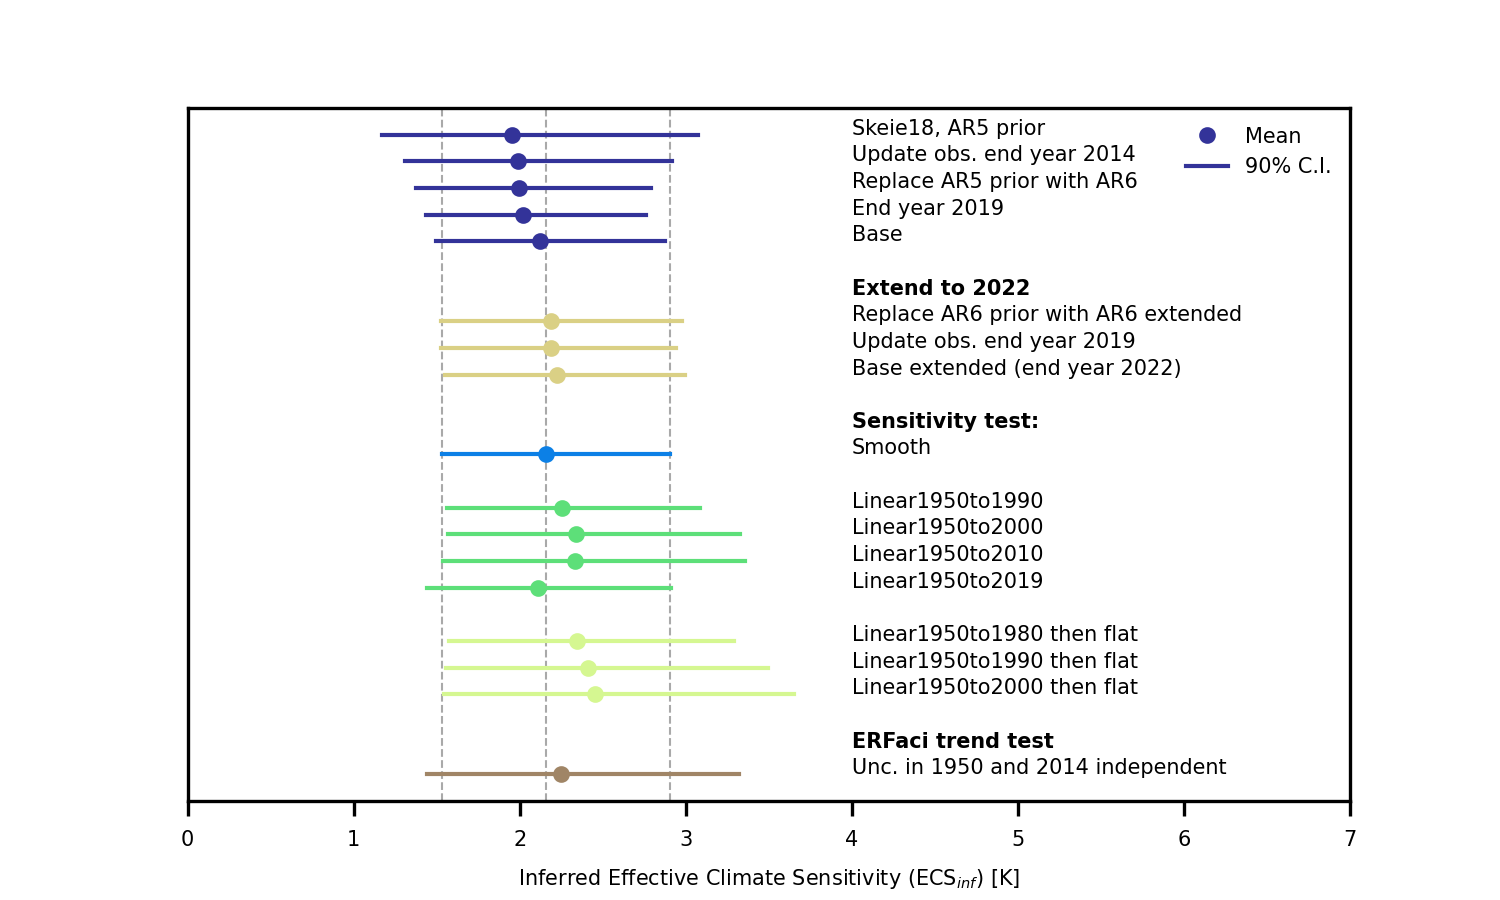
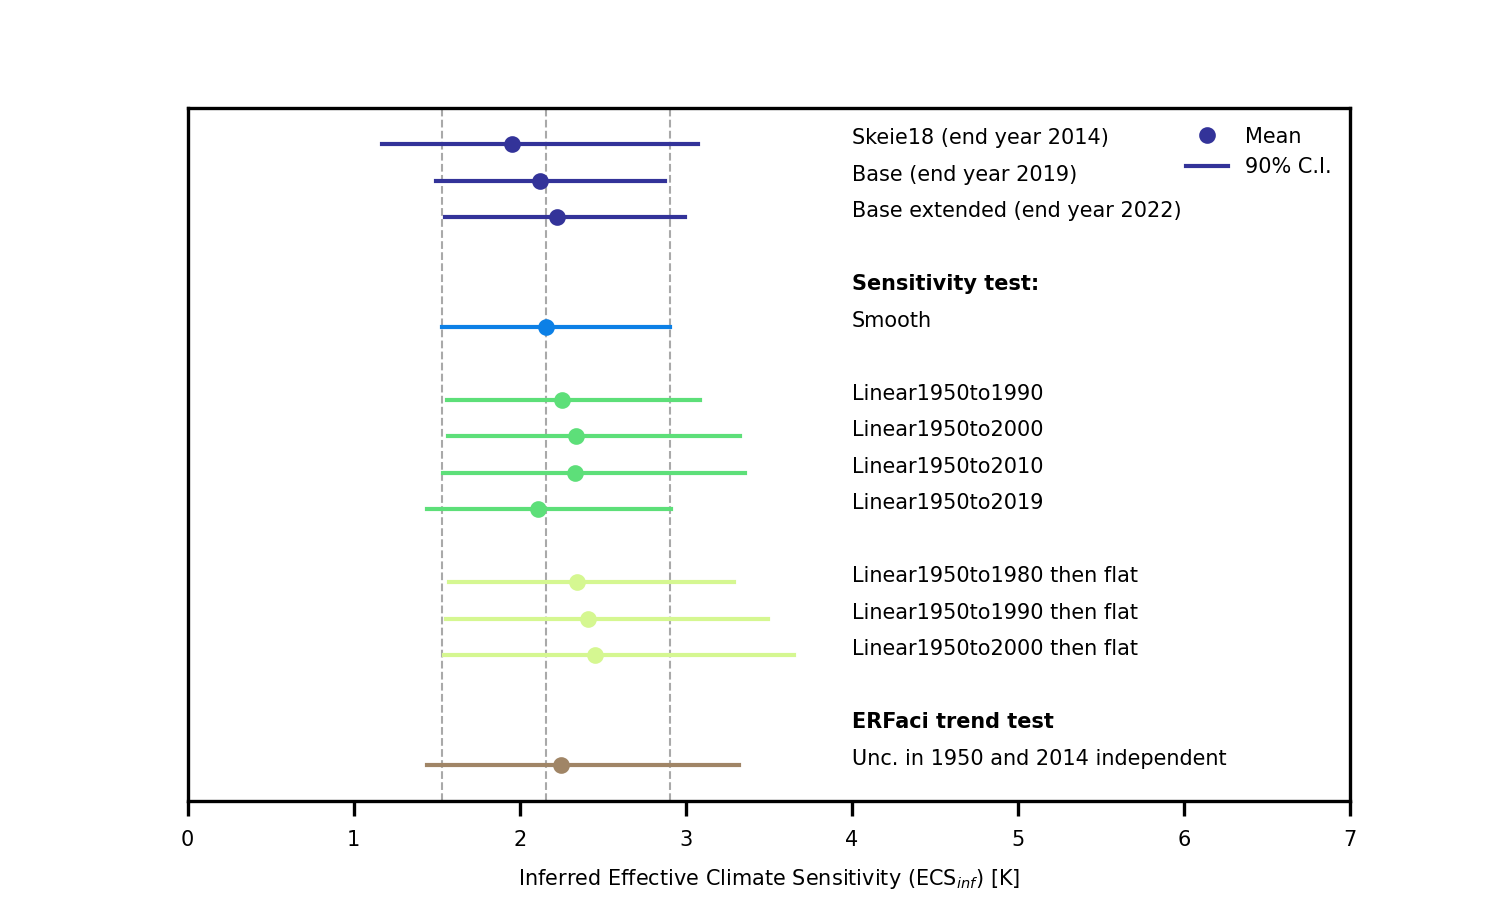
removed results from the stepwise update in the figures

diff --git a/scripts_for_figures/dict_for_simulations.py b/scripts_for_figures/dict_for_simulations.py
@@ -6,15 +6,8 @@ from matplotlib.pyplot import cm
 def dict_for_simulations():
 
     print('Hei')
-    scen_list_out = {'OutputAnalyse01':'Skeie18, AR5 prior',
-                     'OutputAnalyse02':'Update obs. end year 2014',
-                     'OutputAnalyse03':'Replace AR5 prior with AR6',
-                     'OutputAnalyse04':'End year 2019',
-                     'OutputAnalyse19NewPrior_W_cpi_2':'Base',
-                     'Space0':'',
-                     'Space6':'Extend to 2022',
-                     'OutputAnalyse28':'Replace AR6 prior with AR6 extended',
-                     'OutputAnalyse29':'Update obs. end year 2019',
+    scen_list_out = {'OutputAnalyse01':'Skeie18 (end year 2014)',
+                     'OutputAnalyse19NewPrior_W_cpi_2':'Base (end year 2019)',
                      'OutputAnalyse30':'Base extended (end year 2022)',
                      'Space7':'',
                      'Space1':'Sensitivity test:',
@@ -79,8 +72,7 @@ def dict_for_simulations():
                       'OutputAnalyse33LinredSmoothbase1950to2000Flat':colorlist[4],
                       'OutputAnalyse28':colorlist[5],
                       'OutputAnalyse29':colorlist[5],
-                      'OutputAnalyse30':colorlist[5],
-                      'OutputAnalyse34':colorlist[6],
-                      'OutputAnalyse34withFewerSeries':colorlist[6]}
+                      'OutputAnalyse30':colorlist[0],
+                      'OutputAnalyse34':colorlist[6]}
 
     return scen_list_out, scen_colorlist

diff --git a/scripts_for_figures/plot_rib_trend_all.py b/scripts_for_figures/plot_rib_trend_all.py
@@ -38,6 +38,7 @@ def plot_summary():
 
 #Results to be plotted in b)        
 scen_list_out = {'OutputAnalyse19NewPrior_W_cpi_2':'Base',
+                 'OutputAnalyse30':'Base extended (end year 2022)',
                  'Space0':'',
                  'Space1':'Sensitivity test:',
                  'OutputNewAnalyse05Smooth':'Smooth',
@@ -52,12 +53,10 @@ scen_list_out = {'OutputAnalyse19NewPrior_W_cpi_2':'Base',
                  'OutputAnalyse27LinredSmoothbase1950to2019':'Linred1950to2019',
                  'Space4':'',
                  'OutputAnalyse33LinredSmoothbase1950to2000Flat':'Linred1950to2000 then flat',
-                 'Space5':'',
-                 'Space6':'Extend to 2022:',
-                 'OutputAnalyse30':'Base extended (end year 2022)',
                  'Space7':'',
                  'Space8':'ERFaci trend test',
-                 'OutputAnalyse34':'Unc. in 1950 and 2014 independent'}
+                 'OutputAnalyse34':'Unc. in 1950 and 2014 independent',
+                 'Space9':'',}
 
 
 #Results to be plotted in c)
@@ -285,7 +284,7 @@ ax.set_ylabel('Earth Energy Imbalance [W m$^{-2}$]')
 
 axes["right"].set_xlabel('Earth Energy Imbalance trend [(W m$^{-2}$) dec$^{-1}$]')
 
-axes["top left"].set_title('a)',loc='left')
+axes["top left"].set_title('a) Earth Energy Imbalance',loc='left')
 axes["right"].set_title('b) Forced Earth Energy Imbalance trend 2005-2019 ',loc='left')
 axes["bottom left"].set_title('c) Forced Earth Energy Imbalance',loc='left')
 

diff --git a/scripts_for_figures/plot_rf_prior_post_combined.py b/scripts_for_figures/plot_rf_prior_post_combined.py
@@ -125,8 +125,9 @@ def plot_summary():
             summary_erf_prior.name = textline
             summary_all_prior = pd.concat([summary_all_prior,summary_erf_prior],axis=1)
             
-        if scen == 'OutputAnalyse04':
-            summary_erf_prior = pd.read_csv('results_csv/summary_prior_rf_'+scen+str(scen_end_yr[scen])+ '_allcomp.csv',index_col=0)
+        if scen == 'OutputAnalyse19NewPrior_W_cpi_2':
+            scen_prior = 'OutputAnalyse04'
+            summary_erf_prior = pd.read_csv('results_csv/summary_prior_rf_'+scen_prior+str(scen_end_yr[scen])+ '_allcomp.csv',index_col=0)
             
             summary_erf_prior = summary_erf_prior.loc[rf_comp]
             ax.plot(summary_erf_prior['mean'],antscen-sc+0.50,'s',markersize=3,
@@ -272,7 +273,7 @@ scen_end_yr = {'OutputAnalyse01':2014,
 scen_list_out,scen_colorlist =  dict_for_simulations()
 antscen = len(scen_list_out)
 
-rf_comp = 'antro' #aero' #antro' #'aero' #antro' #'aero' #antro' #'Tot' #'antro' #'aero' #'antro' #'aero'
+rf_comp = 'antro' #'antro' #aero' #antro' #'aero' #antro' #'aero' #antro' #'Tot' #'antro' #'aero' #'antro' #'aero'
 
 rf_list_long = {'Tot':'Total ERF',
                 'antro':'Anthropogenic ERF',

diff --git a/scripts_for_figures/plot_all_tcr.py b/scripts_for_figures/plot_all_tcr.py
@@ -13,7 +13,7 @@ scen_list_out,scen_colorlist =  dict_for_simulations()
 antscen = len(scen_list_out)
 
 
-fig, axs = plt.subplots(nrows=1,ncols=1,figsize=(5,3))
+fig, axs = plt.subplots(nrows=1,ncols=1,figsize=(6,3))
 
 
 for sc,scen in enumerate(scen_list_out):
@@ -69,8 +69,8 @@ print(summary_all)
 
 
 print('Tekst to manuscript')
-print('mean Base ' + '{:.1f}'.format(summary_all['Mean'].loc['Base']))
-print('90th range Base: '+ '{:.1f}'.format(summary_all['5perc'].loc['Base']) +' to ' + '{:.1f}'.format(summary_all['95perc'].loc['Base']))
+print('mean Base ' + '{:.1f}'.format(summary_all['Mean'].loc['Base (end year 2019)']))
+print('90th range Base: '+ '{:.1f}'.format(summary_all['5perc'].loc['Base (end year 2019)']) +' to ' + '{:.1f}'.format(summary_all['95perc'].loc['Base (end year 2019)']))
 
 
 print('Tekst to manuscript')

diff --git a/scripts_for_figures/plot_all_ecs_inf.py b/scripts_for_figures/plot_all_ecs_inf.py
@@ -71,10 +71,10 @@ print(summary_all)
 
 
 print('Tekst to manuscript')
-print('mean Base ' + '{:.1f}'.format(summary_all['Mean'].loc['Base']))
-print('90th range Base: '+ '{:.1f}'.format(summary_all['5perc'].loc['Base']) +' to ' + '{:.1f}'.format(summary_all['95perc'].loc['Base']))
+print('mean Base ' + '{:.1f}'.format(summary_all['Mean'].loc['Base (end year 2019)']))
+print('90th range Base: '+ '{:.1f}'.format(summary_all['5perc'].loc['Base (end year 2019)']) +' to ' + '{:.1f}'.format(summary_all['95perc'].loc['Base (end year 2019)']))
 
-temp = summary_all['Mean'].loc['Base'] - summary_all['Mean'].loc['Skeie18, AR5 prior']
+temp = summary_all['Mean'].loc['Base (end year 2019)'] - summary_all['Mean'].loc['Skeie18 (end year 2014)']
 print('diff Base and Skeie et al 2018: '  + '{:.1f}'.format(temp))
 
 """
